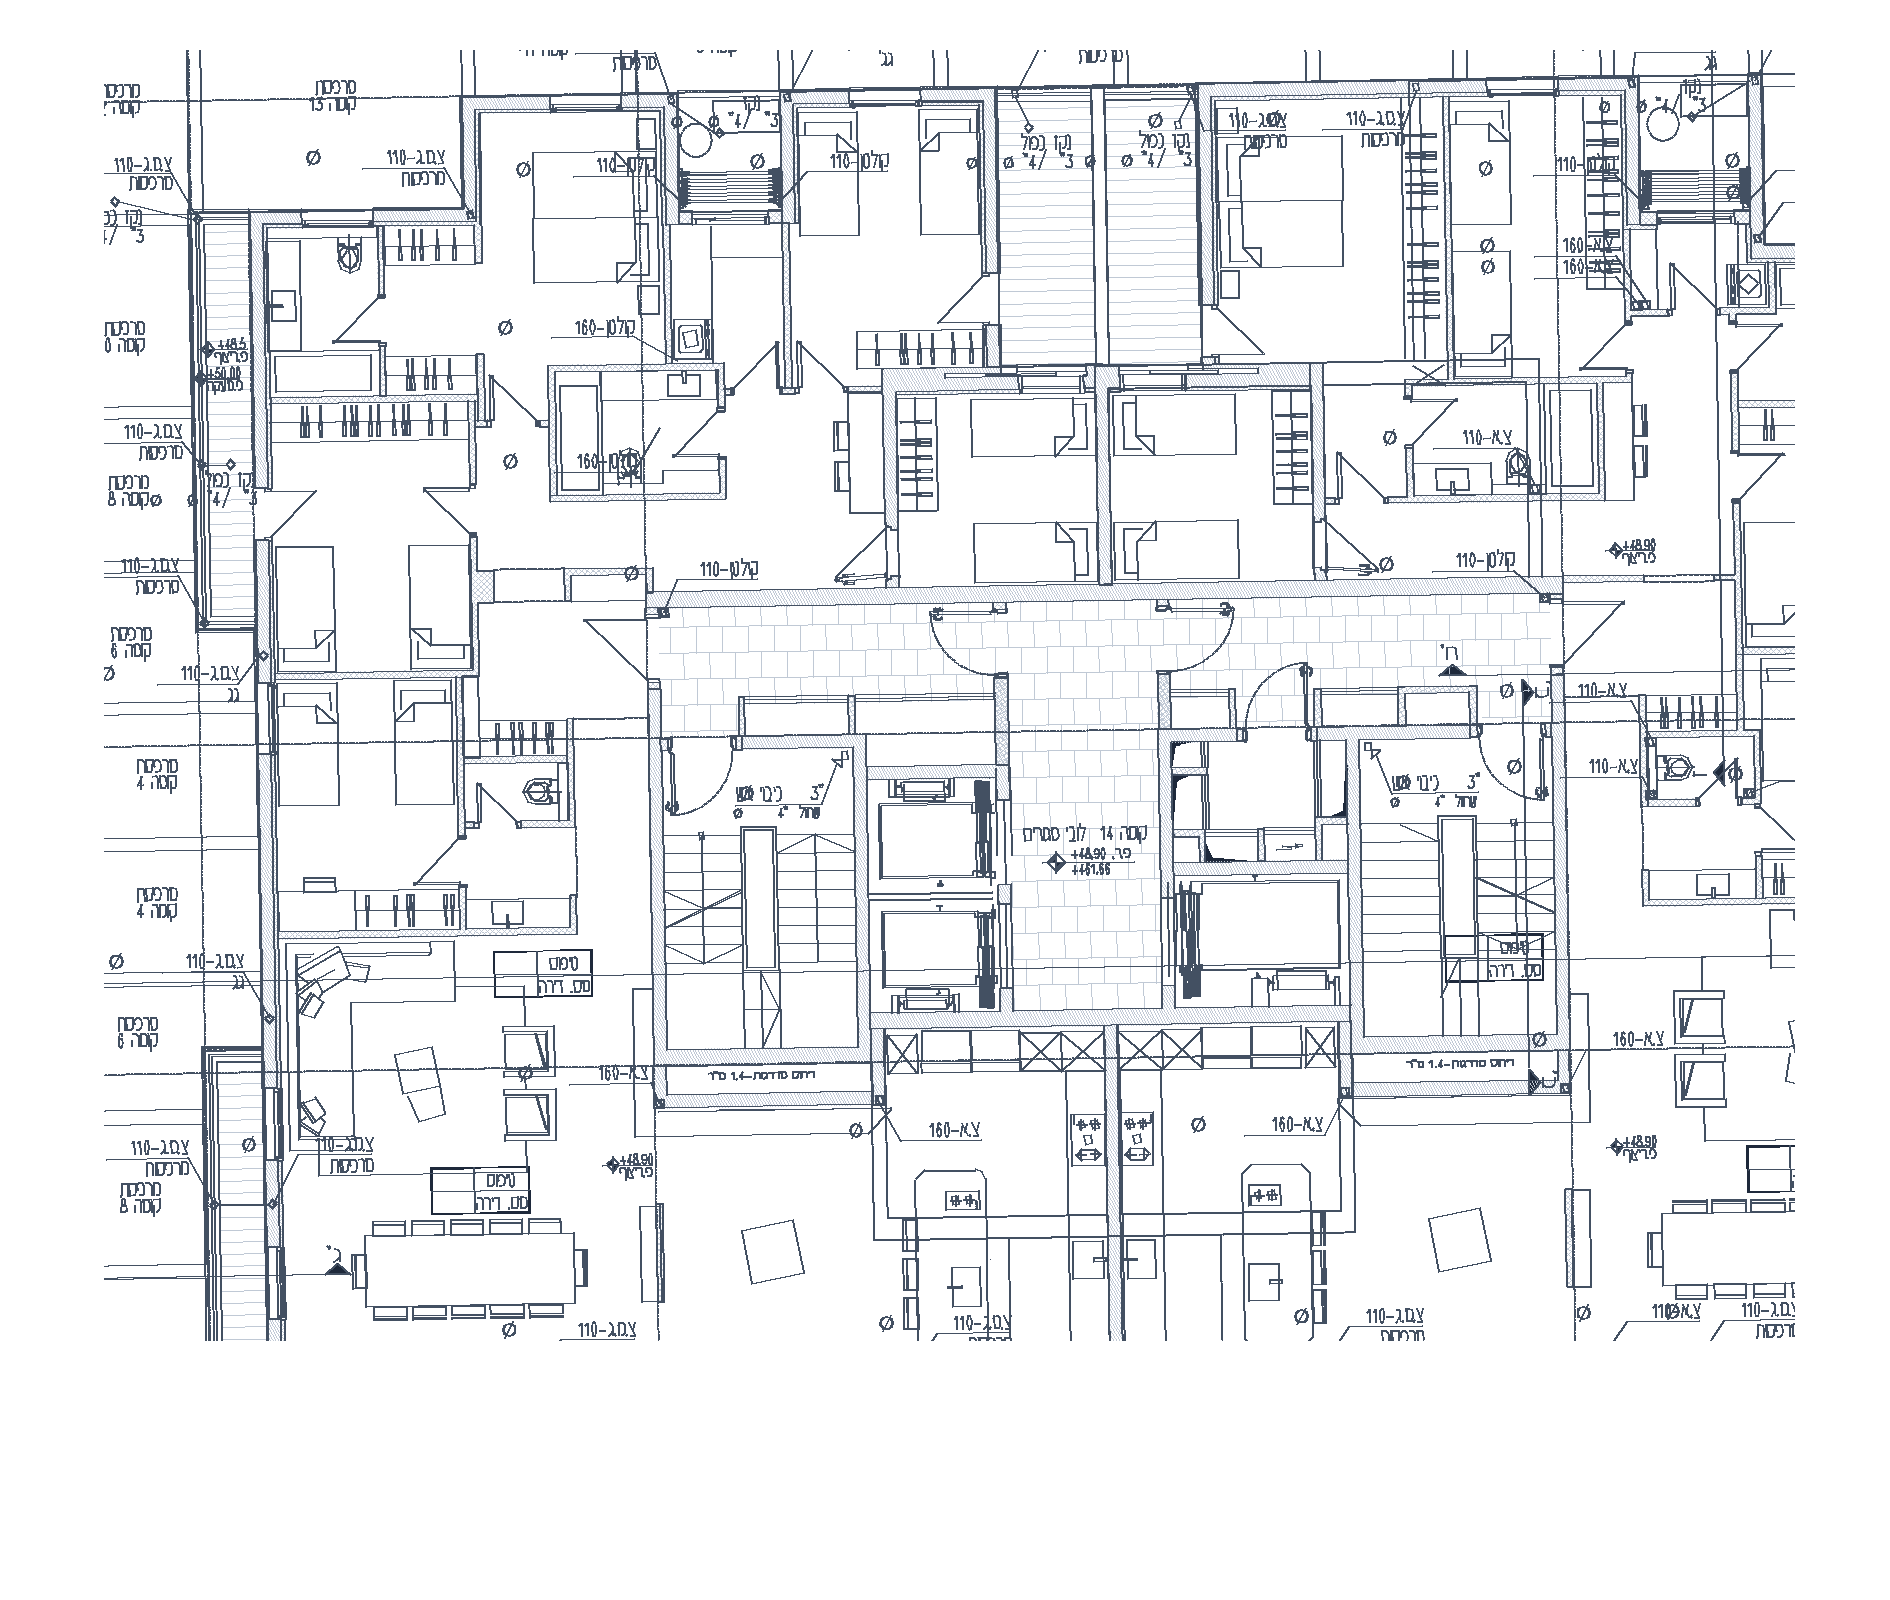
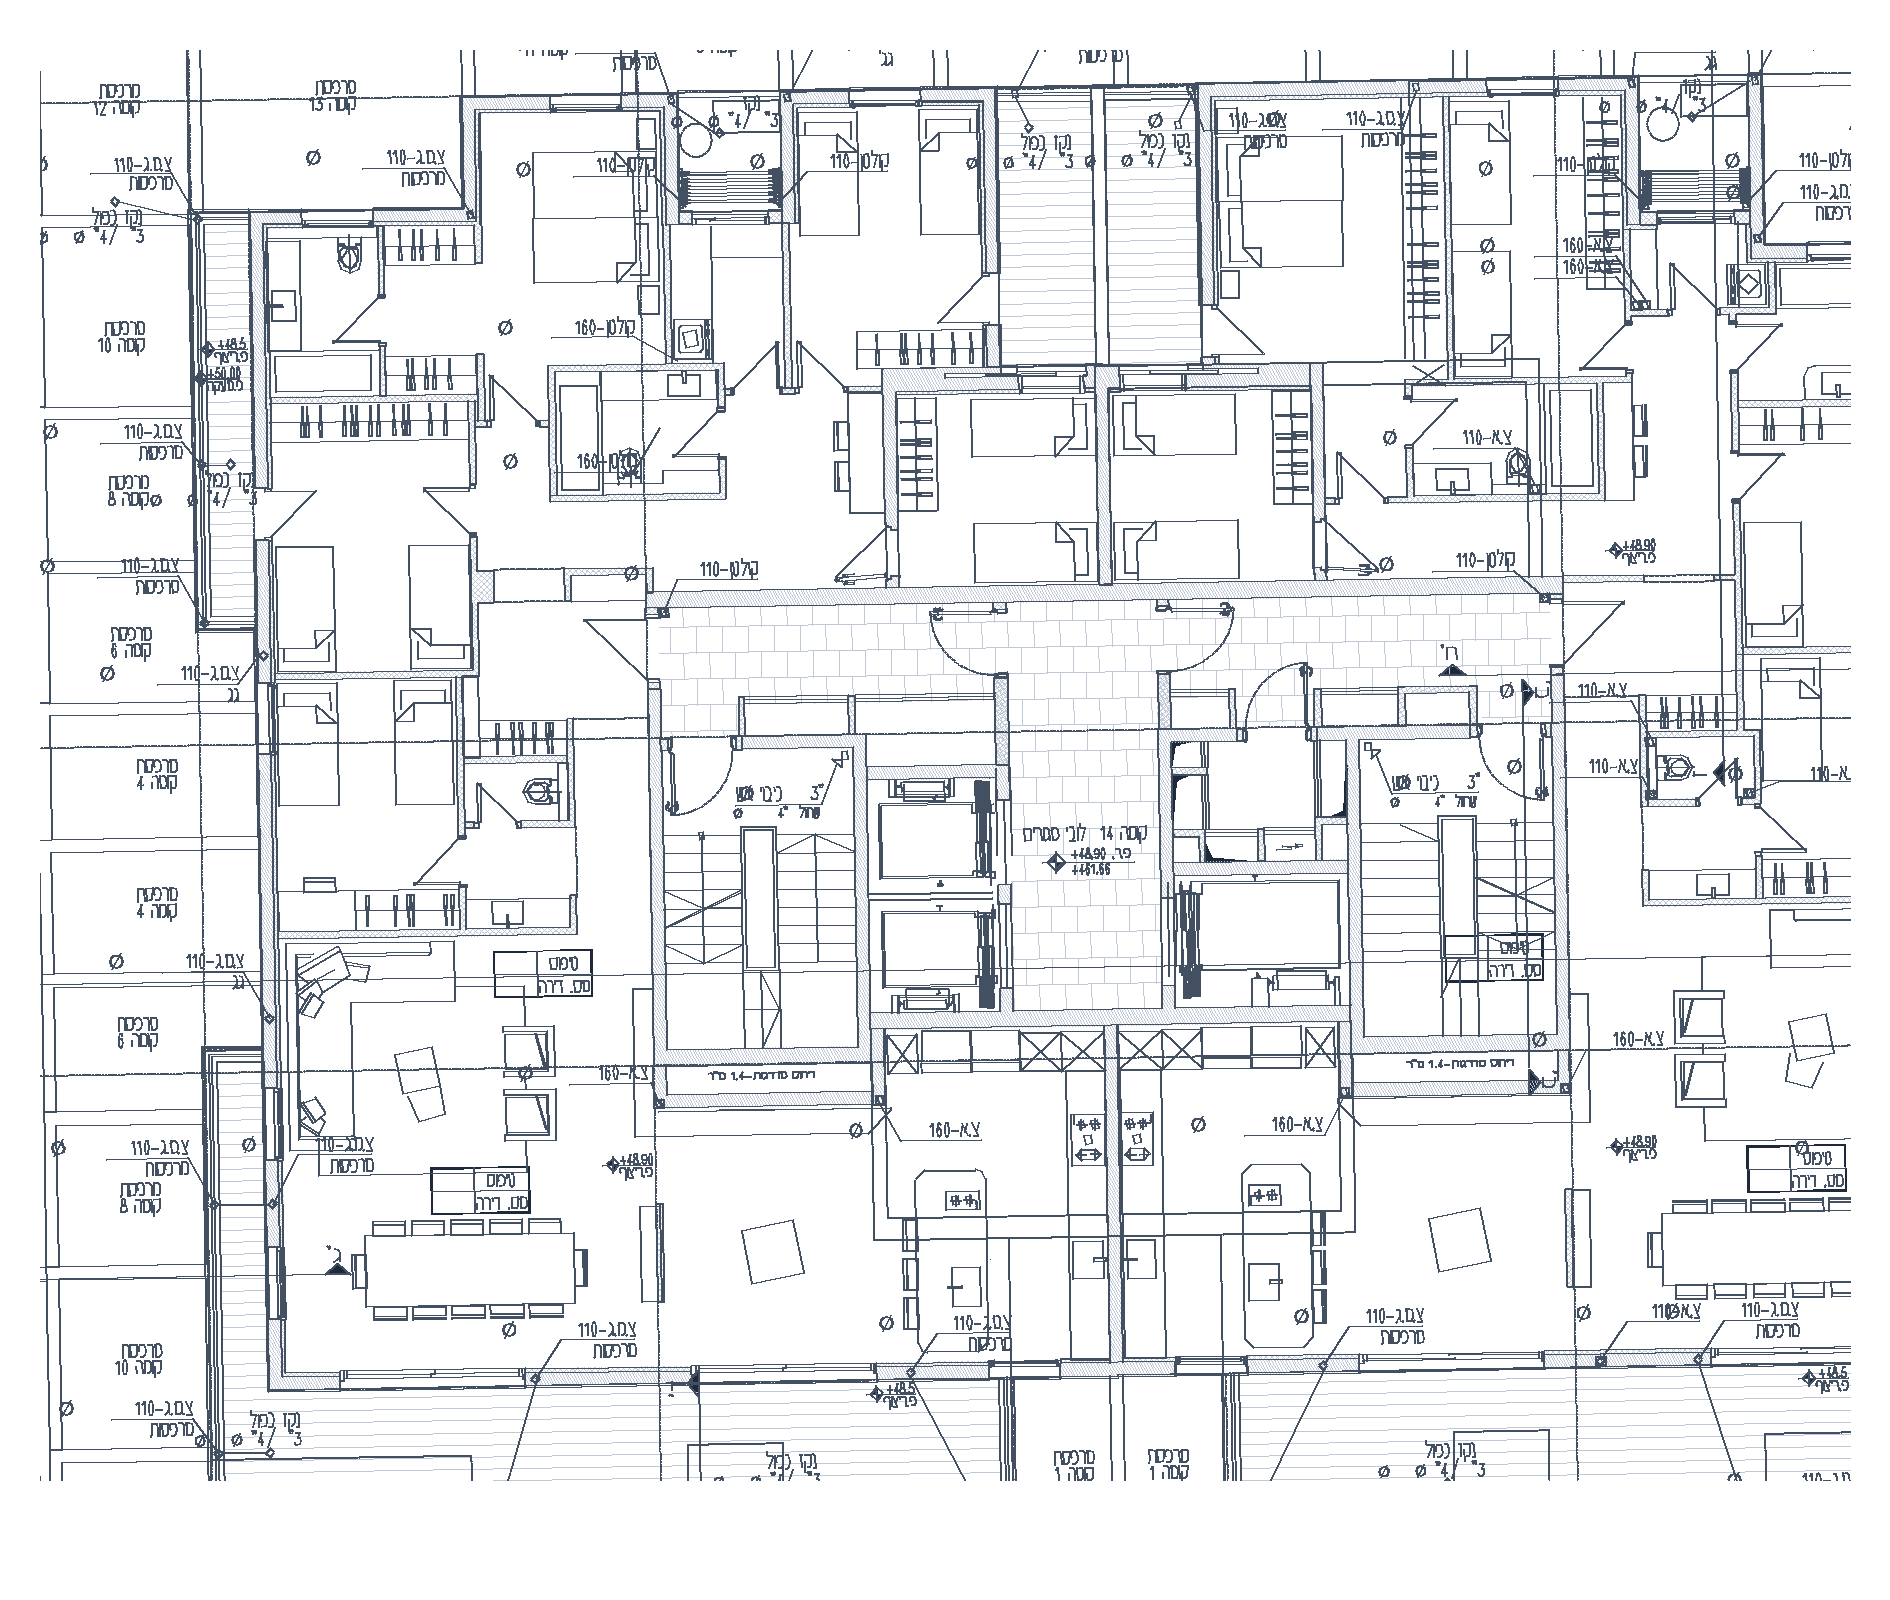
Building view: penthouses as he marked them, the board's real bottom-floor slots
- Floors 14/15: the outlines he drew on the printed TES sheets (terraces in;
  on 15 the box beside the core is not 56's), the apartments placed by number
  (54 and 55 one side, 53 and 56 the other; 55 stands over 54), their rooms
  redrawn from the sheets' own vectors inside the new outlines.
- Lower levels: the board's real slots (read from the live board): each
  building's קרקע (floor 1), -1 (-1 or -1.5), -2, and building 1's ספא
  (-0.5). A slot named for its level lights that building's part of it; ספא
  lights the spa.
v14board: 30 checks green.

Claude-Session: https://claude.ai/code/session_016jnZPBg7HPrjgM1hVmBpZR

diff --git a/src/components/building/wolfsonPlan.ts b/src/components/building/wolfsonPlan.ts
@@ -29,15 +29,17 @@ export const SHAPES: Record<ShapeKey, Pt[]> = {
   WL: [[122,420],[262,420],[262,542],[97,542],[97,525],[122,525]],
   WR: [[848,420],[979,420],[979,525],[1007,525],[1007,542],[848,542]],
   // THE PENTHOUSES, each ONE apartment (owner, 2026-11-03: "they feel like two
-  // connected apartments … a line in the middle"): their outline is read off
+  // connected apartments … a line in the middle"). The outlines are the ones he
+  // marked by hand on the printed floor 14 and 15 A sheets (terraces included;
+  // on 15 a box beside the core is not 56's). Their rooms are read off
   // the engineers' floor 14 and floor 15 A sheets (TES 2441-08/-09), whose own
   // vectors are drawn into the plan's units — the stairs land on the typical
   // floor's stairs (1.145 plan units per sheet half-point). Floor 15 is set
   // back: below the core it is terrace.
-  PL14: [[132,45],[550,45],[550,290],[320,290],[320,520],[550,520],[550,690],[132,690]],
-  PR14: [[550,45],[977,45],[977,690],[550,690],[550,520],[780,520],[780,290],[550,290]],
-  PL15: [[132,45],[550,45],[550,290],[320,290],[320,520],[550,520],[550,545],[132,545]],
-  PR15: [[550,45],[977,45],[977,545],[550,545],[550,520],[780,520],[780,290],[550,290]],
+  PL14: [[100,45],[553,45],[553,290],[320,290],[320,520],[553,520],[553,640],[505,640],[505,760],[100,760]],
+  PR14: [[553,45],[1005,45],[1005,760],[505,760],[505,640],[553,640],[553,520],[780,520],[780,290],[553,290]],
+  PL15: [[100,45],[553,45],[553,290],[320,290],[320,520],[553,520],[553,700],[100,700]],
+  PR15: [[553,45],[1005,45],[1005,700],[553,700],[553,610],[625,610],[625,545],[553,545],[553,520],[780,520],[780,290],[553,290]],
 };
 
 /** The penthouse floors' core, and each penthouse floor's own drawing. */
@@ -47,7 +49,7 @@ export function isPenthouseShape(k: ShapeKey): boolean { return k.startsWith('P'
 
 /** Where an apartment's number sits — inside its biggest room (the living wing). */
 export const LABEL_AT: Record<ShapeKey, Pt> = {
-  A: [178, 215], B: [930, 228], C2: [178, 640], C1: [930, 640], WL: [180, 480], WR: [925, 480], PL14: [235, 600], PR14: [875, 600], PL15: [235, 420], PR15: [875, 420],
+  A: [178, 215], B: [930, 228], C2: [178, 640], C1: [930, 640], WL: [180, 480], WR: [925, 480], PL14: [235, 640], PR14: [870, 640], PL15: [235, 610], PR15: [870, 620],
 };
 
 /** The core: the corridor band, two stairwells and the lifts. */
@@ -75,6 +77,13 @@ export function shapesOf(apt: { tipus?: string; colPosition: number; colSpan?: n
   if (span > 1) {
     const left = apt.colPosition <= 2;
     const top = !!apt.isDuplexApt || Number(apt.apartmentNumber) >= 55;
+    // By NUMBER, as he marked the sheets: 54 and 55 are the one side, 53 and 56
+    // the other (55 stands over 54) — whatever columns the board gives them.
+    const n = Number(apt.apartmentNumber);
+    if (n === 54) return ['PL14'];
+    if (n === 53) return ['PR14'];
+    if (n === 55) return ['PL15'];
+    if (n === 56) return ['PR15'];
     if (top) return [left ? 'PL15' : 'PR15'];
     return [left ? 'PL14' : 'PR14'];
   }
@@ -133,7 +142,7 @@ export function stripFor(i: number) {
  * storage rooms the left end of basement -2, parking the rest; the lobbies sit
  * round each core on the ground floor). In the strip's points.
  */
-export const LEVEL_FLOORS: Record<string, number[]> = { g: [0, 1], spa: [-0.5], b1: [-1], b2: [-2, -3, -4] };
+export const LEVEL_FLOORS: Record<string, number[]> = { g: [0, 1], spa: [-0.5], b1: [-1, -1.5], b2: [-2, -3, -4] };
 export interface Zone { key: string; level: string; words: RegExp; rect?: [number, number, number, number]; perTower?: [number, number, number, number] }
 export const ZONES: Zone[] = [
   { key: 'spa', level: 'spa', words: /spa|ספא|pool|בריכ|gym|כושר|sauna|סאונה|wellness/i, rect: [150, 820, 1450, 1700] },
@@ -142,12 +151,20 @@ export const ZONES: Zone[] = [
   { key: 'parking2', level: 'b2', words: /park|חני/i, rect: [1000, 830, 4100, 1760] },
   // round each tower's core: [dx0, y0, dx1, y1] from the core's x
   { key: 'lobby', level: 'g', words: /lobby|לובי|entrance|כניס/i, perTower: [-380, 1050, 380, 1560] },
+  // A slot named for its level ("-2", "-1", "קרקע" — the office's own names)
+  // is that tower's whole part of the level.
+  { key: 'whole', level: '*', words: /^\s*-?\d+(\.\d+)?\s*$|^\s*(קרקע|ground|basement|מרתף)/i, perTower: [0, 0, 0, 0] },
   { key: 'shop', level: 'g', words: /commerc|מסחר|shop|חנו|store\b/i, perTower: [-520, 840, 520, 1620] },
 ];
 /** The area a slot lights on its level, in strip points, for tower i; none when its name names no area. */
 export function zoneFor(level: string, name: string, tower: number): [number, number, number, number] | null {
   for (const z of ZONES) {
-    if (z.level !== level || !z.words.test(name)) continue;
+    if ((z.level !== level && z.level !== '*') || !z.words.test(name)) continue;
+    if (z.key === 'whole') {
+      const from = tower === 0 ? STRIP.x + 30 : CUTS[tower - 1];
+      const to = tower >= CUTS.length ? STRIP.x + STRIP.w - 60 : CUTS[tower];
+      return [from + 20, STRIP.y + 60, to - 20, STRIP.y + STRIP.h - 40];
+    }
     if (z.rect) return z.rect;
     if (z.perTower) { const cx = CORES_X[tower] ?? CORES_X[0]; return [cx + z.perTower[0], z.perTower[1], cx + z.perTower[2], z.perTower[3]]; }
   }
